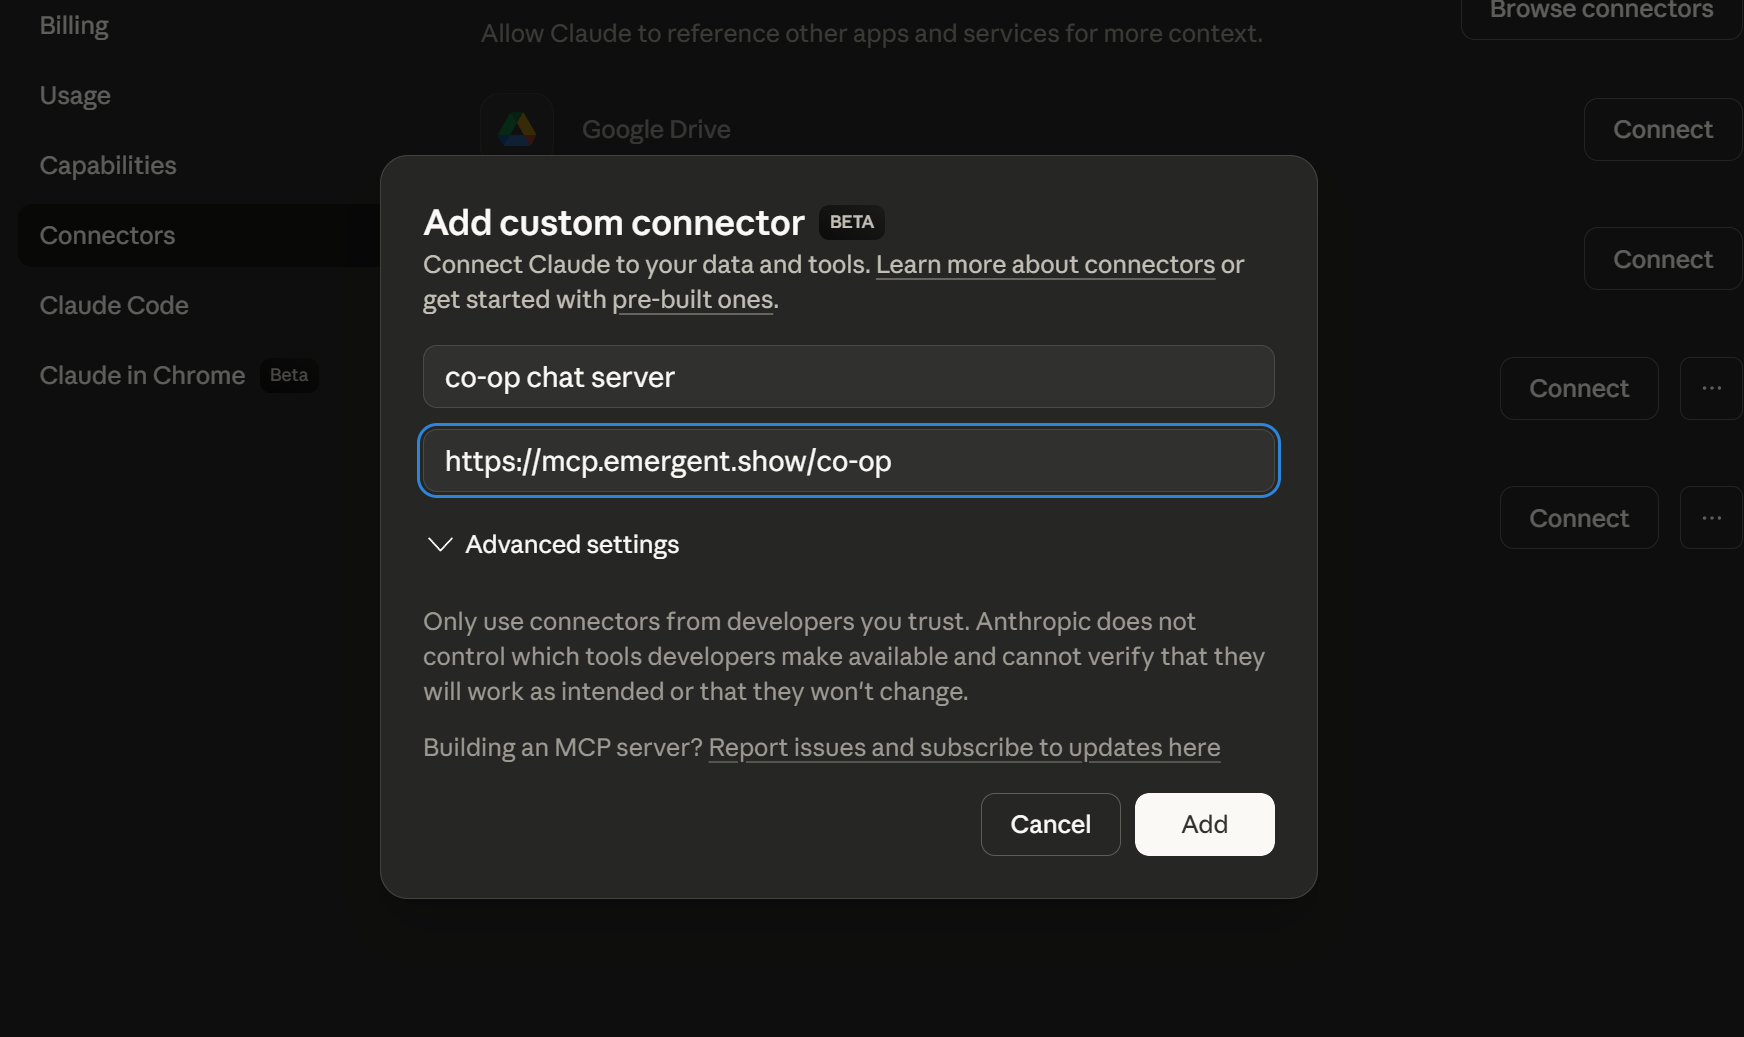
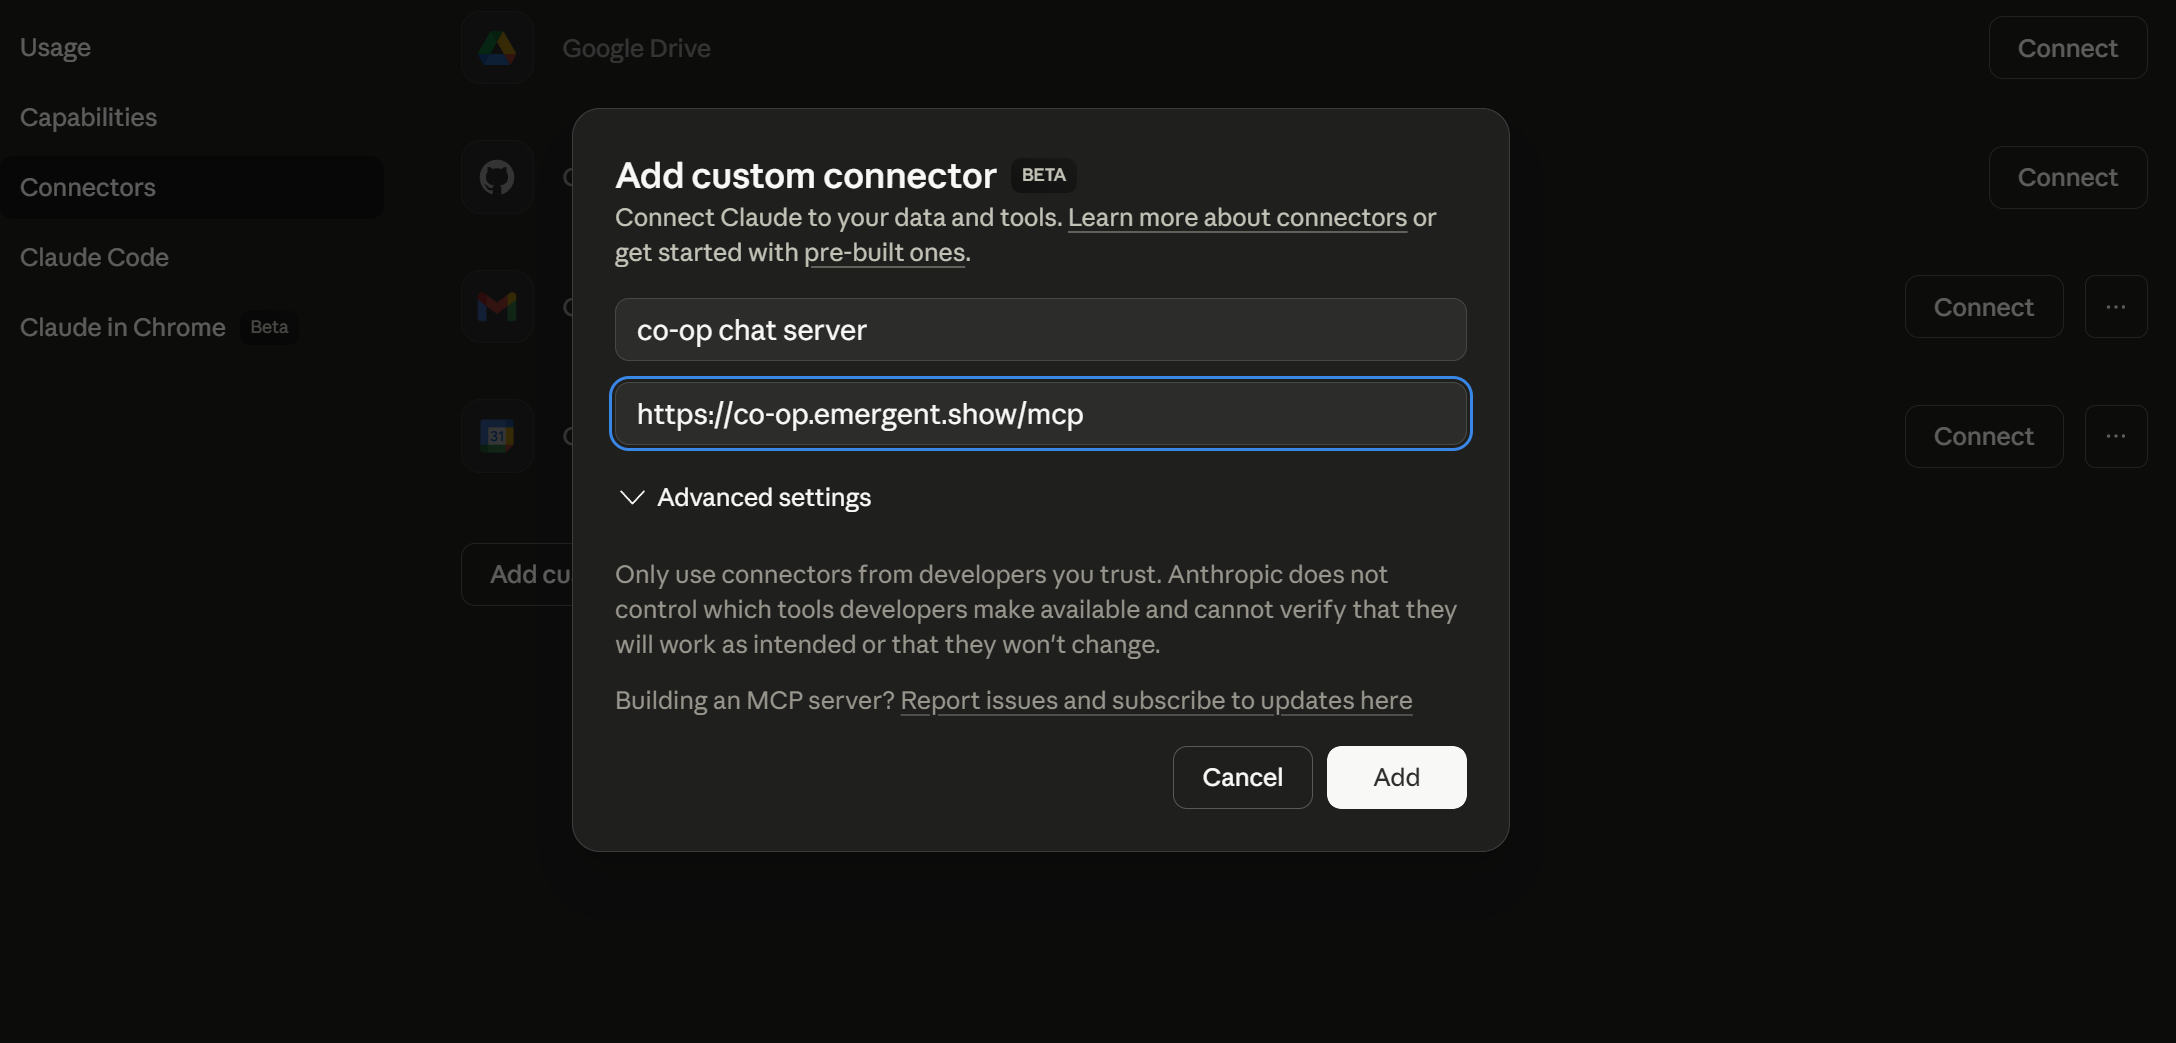
update instructions

diff --git a/README.md b/README.md
@@ -5,7 +5,7 @@
 Add this server to any MCP client:
 
 ```
-https://mcp.emergent.show/co-op
+https://co-op.emergent.show/mcp
 ```
 
 #### Now your agents can talk over the internet!
